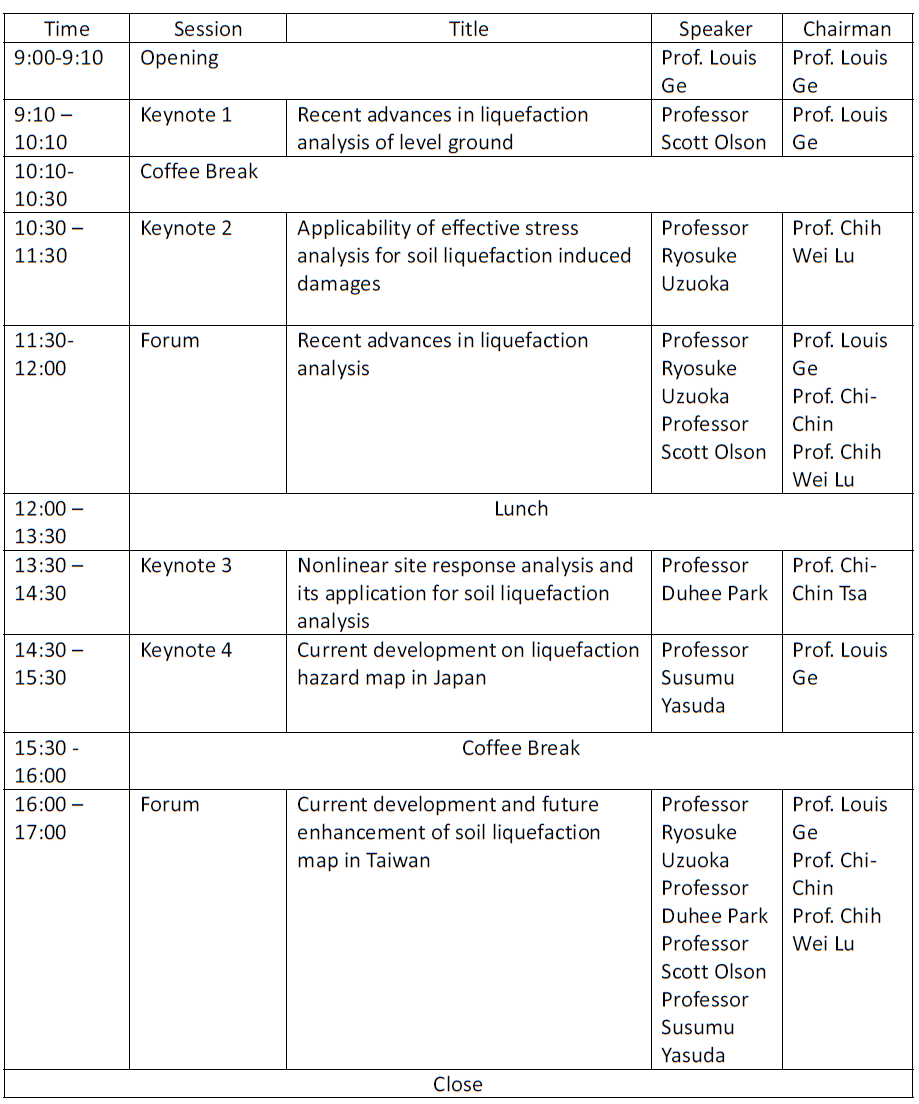
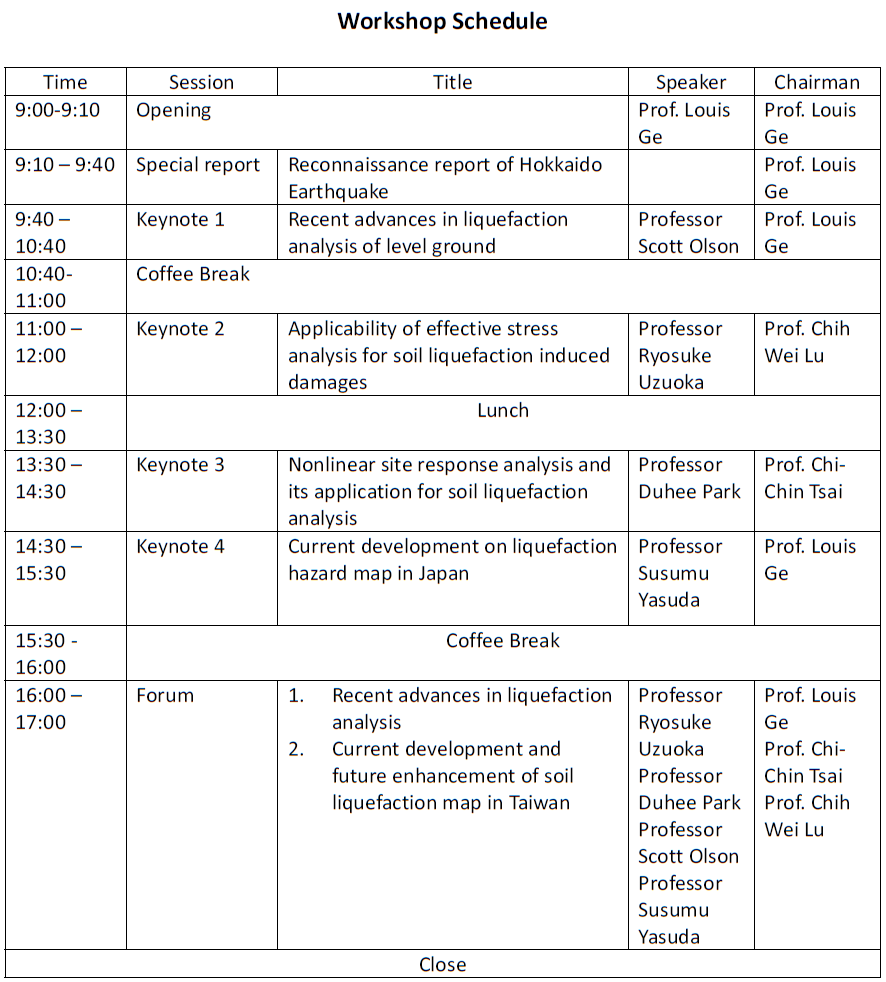
Add files via upload

Changed region(s): [[0.0, 0.0, 1.0, 1.0], [0.3047, 0.0, 0.3352, 0.0305]]

diff --git a/index.html b/index.html
@@ -1,6 +1,6 @@
 <!DOCTYPE html>
 <html>
-<title>International Workshop on Recent Advances in Soil Liquefaction Assessment</title>
+<title>International Workshop on Recent Advances in Soil Liquefaction Assessment with a Special Highlight on 2018 Hokkaido Earthquake Reconnaissance</title>
 <meta name="viewport" content="width=device-width, initial-scale=1">
 <link rel="stylesheet" href="https://www.w3schools.com/w3css/4/w3.css">
 <link rel="stylesheet" href="https://cdnjs.cloudflare.com/ajax/libs/font-awesome/4.7.0/css/font-awesome.min.css">
@@ -110,7 +110,7 @@
 </div>
 
 <div class="w3-container w3-center" style="margin-top: 30px">
-	<h3><b>International Workshop on Recent Advances in Soil Liquefaction Assessment</b></h3>
+	<h3><b>International Workshop on Recent Advances in Soil Liquefaction Assessment with a Special Highlight on 2018 Hokkaido Earthquake Reconnaissance</b></h3>
 </div>
 
 <div class="w3-container">
@@ -149,7 +149,7 @@
 </div>
 <div id="intro" class="w3-container w3-twothird w3-center w3-padding-16">
 	<h3 style="background-color: black; color: white;">Introduction</h3>
-	<div class="w3-container w3-left-align "><p>The 2016 Meinong earthquake causes severe liquefaction damage in the Tainan area, which draws the great public attention of soil liquefaction issue in Taiwan. The Taiwan government also disclosed the first version of liquefaction hazard map few months after the earthquake. The 2nd version of soil liquefaction hazard map is being currently developed with tremendous amounts of additional field investigations and lab tests performed. Therefore, the object of this international workshop is to facilitate the current liquefaction assessment practice in Taiwan, where a great amount of borehole information has been collected since the 2016 Meinong earthquake. The workshop also aims to disseminate the state of the art and state of the practice in soil liquefaction assessment from academia to practice and from Taiwan to the world. There are two themes at this conference: 1. recent advances in soil liquefaction analysis, including numerical modeling and site response analysis. 2. The recent development of liquefaction hazard map worldwide, including Japan and the United State. The workshop will also hold a forum to discuss the current development of soil liquefaction map in Taiwan. The invited experts from the United State, Japan, and Korea will provide their opinion to guide the future improvement of soil liquefaction hazard map in Taiwan. The workshop is free and the audiences are invited.</p>
+	<div class="w3-container w3-left-align "><p>The 2016 Meinong earthquake causes severe liquefaction damage in the Tainan area, which draws the great public attention of soil liquefaction issue in Taiwan. The Taiwan government also disclosed the first version of liquefaction hazard map few months after the earthquake. The 2nd version of soil liquefaction hazard map is being currently developed with tremendous amounts of additional field investigations and lab tests performed. Therefore, the object of this international workshop is to facilitate the current liquefaction assessment practice in Taiwan, where a great amount of borehole information has been collected since the 2016 Meinong earthquake. The workshop also aims to disseminate the state of the art and state of the practice in soil liquefaction assessment from academia to practice and from Taiwan to the world. There are two themes at this conference: 1. Recent advances in soil liquefaction analysis, including numerical modeling and site response analysis. 2. The recent development of liquefaction hazard map worldwide, including Japan and the United State. The workshop will also hold a forum to discuss the current development of soil liquefaction map in Taiwan. The invited experts from the United State, Japan, and Korea will provide their opinion to guide the future improvement of soil liquefaction hazard map in Taiwan. Meanwhile, a brief reconnaissance report on 2018 Hokkaido Earthquake will be delivered as a highlight for this International Workshop.</p>
 	</div>
 </div>
 <hr>
